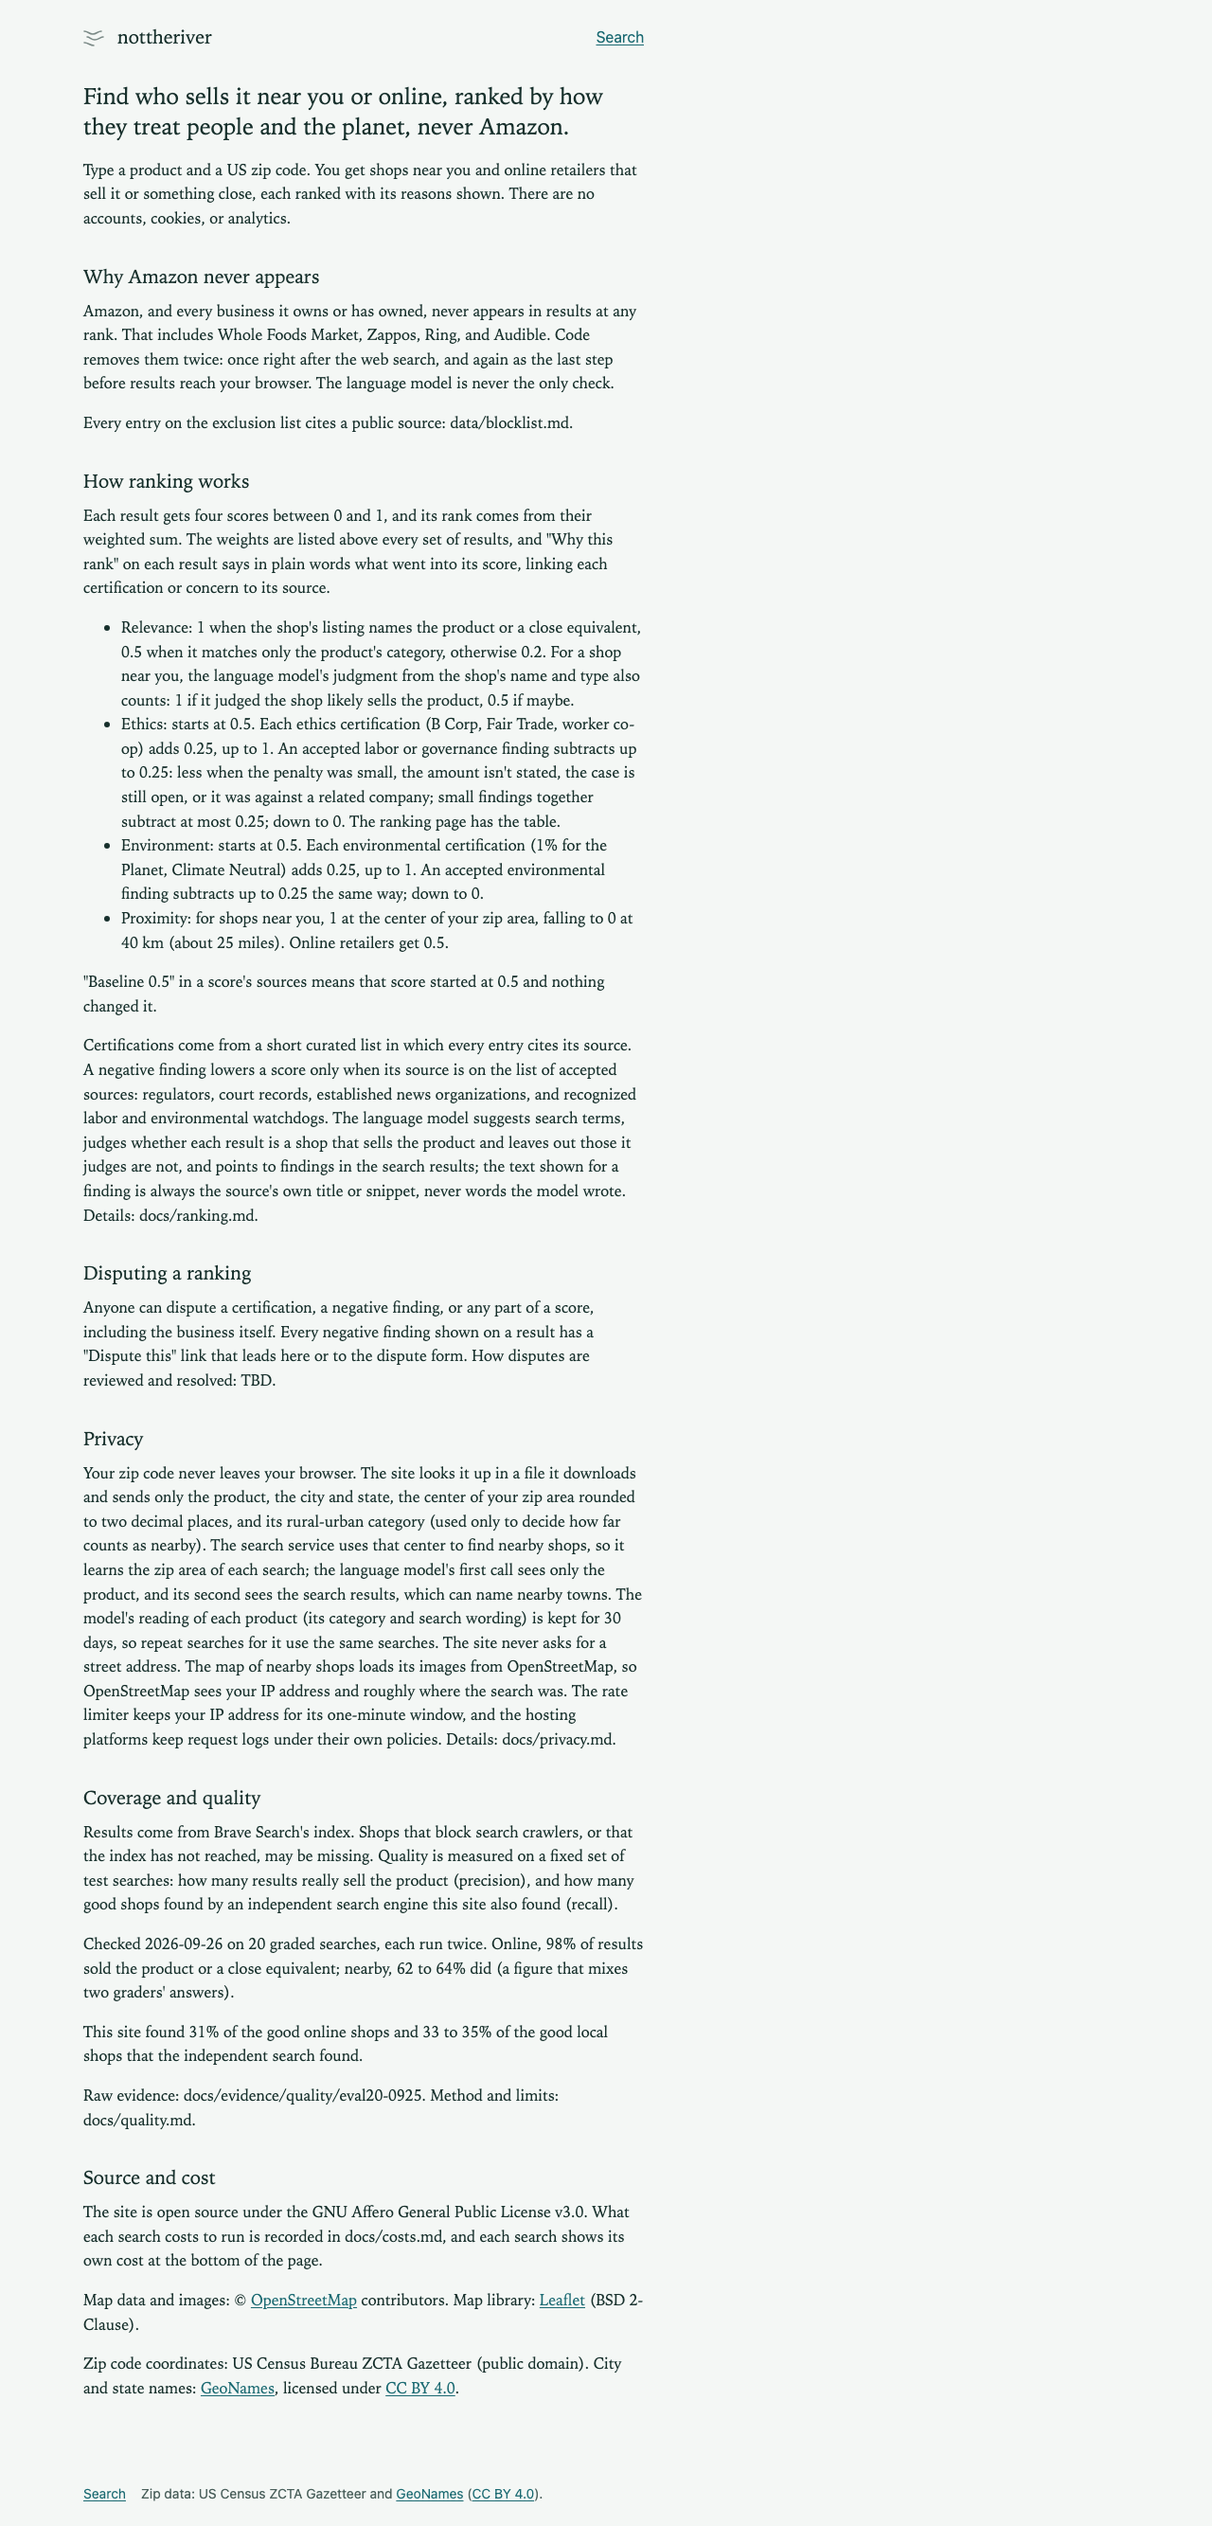
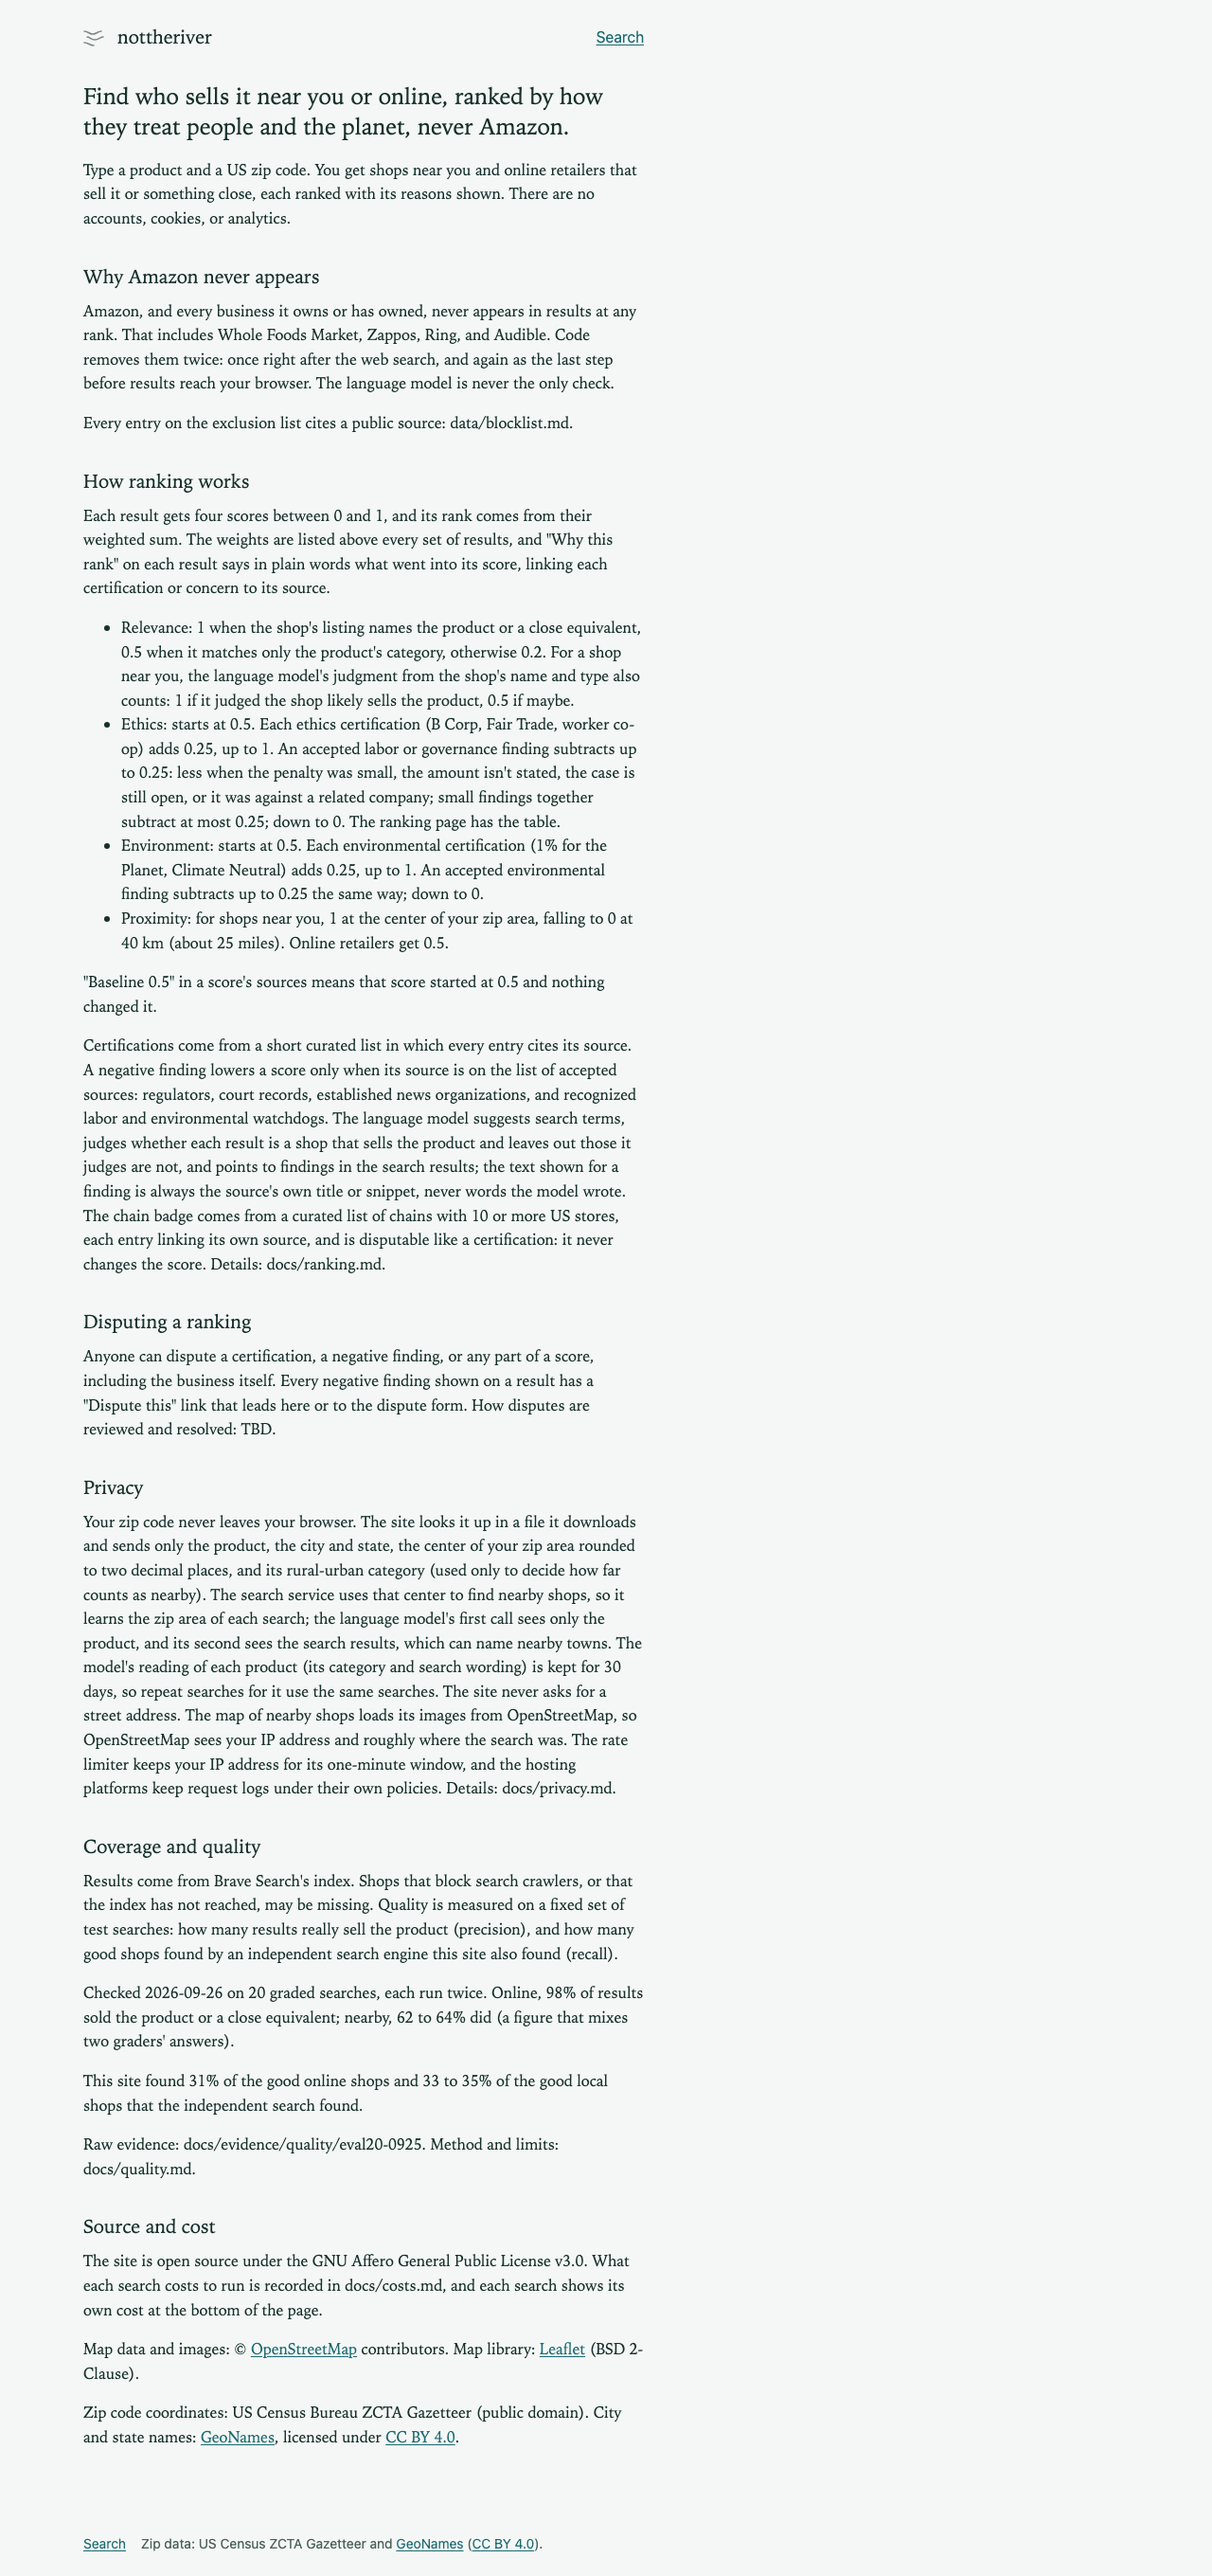
feat(site): show the chain badge
Render the chain badge (Worker's SearchResult.chain) alongside certification
badges as a neutral outbound link, so a chain reads as a fact, not a
credential. "Has certification" continues to ignore it (filterResults never
read the field). Adds about.html and docs/ranking.md copy, and regenerates
docs/evidence/results.png and about.png.

Claude-Session: https://claude.ai/code/session_01RPrsPCj17R4DAFxxExA59E

Changed region(s): [[0.0625, 0.0311, 0.5312, 0.9648]]

diff --git a/about.html b/about.html
@@ -38,7 +38,7 @@
 <li>Proximity: for shops near you, 1 at the center of your zip area, falling to 0 at 40 km (about 25 miles). Online retailers get 0.5.</li>
 </ul>
 <p>"Baseline 0.5" in a score's sources means that score started at 0.5 and nothing changed it.</p>
-<p>Certifications come from a short curated list in which every entry cites its source. A negative finding lowers a score only when its source is on the list of accepted sources: regulators, court records, established news organizations, and recognized labor and environmental watchdogs. The language model suggests search terms, judges whether each result is a shop that sells the product and leaves out those it judges are not, and points to findings in the search results; the text shown for a finding is always the source's own title or snippet, never words the model wrote. Details: <a data-repo-path="blob/main/docs/ranking.md">docs/ranking.md</a>.</p>
+<p>Certifications come from a short curated list in which every entry cites its source. A negative finding lowers a score only when its source is on the list of accepted sources: regulators, court records, established news organizations, and recognized labor and environmental watchdogs. The language model suggests search terms, judges whether each result is a shop that sells the product and leaves out those it judges are not, and points to findings in the search results; the text shown for a finding is always the source's own title or snippet, never words the model wrote. The chain badge comes from a curated list of chains with 10 or more US stores, each entry linking its own source, and is disputable like a certification: it never changes the score. Details: <a data-repo-path="blob/main/docs/ranking.md">docs/ranking.md</a>.</p>
 
 <h2 id="dispute">Disputing a ranking</h2>
 <p>Anyone can dispute a certification, a negative finding, or any part of a score, including the business itself. Every negative finding shown on a result has a "Dispute this" link that leads here or to the dispute form. How disputes are reviewed and resolved: TBD.</p>

diff --git a/src/controls.test.ts b/src/controls.test.ts
@@ -5,7 +5,7 @@ import { filterResults, sortResults } from './controls';
 
 const base = (fixture as SearchResponse).local[0]!;
 
-function make(name: string, rank: number, distance_km: number | null, certified = false): SearchResult {
+function make(name: string, rank: number, distance_km: number | null, certified = false, chain = false): SearchResult {
   return {
     ...base,
     id: `local:${name}:${rank}`,
@@ -14,6 +14,7 @@ function make(name: string, rank: number, distance_km: number | null, certified 
     retailer: { ...base.retailer, name },
     distance_km,
     certifications: certified ? base.certifications : [],
+    chain: chain ? { label: 'Chain, 25 stores', stores: 25, source_url: 'https://chain.example/about', checked: '2026-09-27' } : undefined,
   };
 }
 
@@ -60,6 +61,14 @@ describe('filterResults', () => {
 
   it('keeps only certified results when asked', () => {
     expect(names(filterResults(list, { near: true, online: true, certifiedOnly: true }))).toEqual([
+      'Near certified',
+      'Web certified',
+    ]);
+  });
+
+  it('does not count a chain badge as a certification', () => {
+    const withChain = [...list, make('Chain only', 3, 4, false, true)];
+    expect(names(filterResults(withChain, { near: true, online: true, certifiedOnly: true }))).toEqual([
       'Near certified',
       'Web certified',
     ]);

diff --git a/src/render.test.ts b/src/render.test.ts
@@ -107,6 +107,27 @@ describe('renderResults (HR5)', () => {
     expect(badge.getAttribute('href')).toBe(first.certifications[0]!.source_url);
   });
 
+  it('shows the chain badge as a neutral badge linking to its source', () => {
+    const chainResult = response.online[1]!;
+    const badge = item(chainResult).querySelector<HTMLAnchorElement>('.badge-neutral')!;
+    expect(badge.textContent).toBe(chainResult.chain!.label);
+    expect(badge.getAttribute('href')).toBe(chainResult.chain!.source_url);
+    expect(badge.classList.contains('badge')).toBe(true);
+  });
+
+  it('renders the badges list for a chain even with no certifications', () => {
+    const chainResult = response.online[1]!;
+    expect(chainResult.certifications).toHaveLength(0);
+    expect(item(chainResult).querySelectorAll('.badges li')).toHaveLength(1);
+  });
+
+  it('shows no badges list when a result has neither certifications nor a chain', () => {
+    const plain = response.local[1]!;
+    expect(plain.certifications).toHaveLength(0);
+    expect(plain.chain).toBeUndefined();
+    expect(item(plain).querySelector('.badges')).toBeNull();
+  });
+
   it('shows a negative signal with its kind, source link, action date, and a dispute link', () => {
     const second = response.local[1]!;
     const signal = second.signals[0]!;

diff --git a/tests/e2e/smoke.spec.ts b/tests/e2e/smoke.spec.ts
@@ -102,6 +102,14 @@ test('a search renders ranked, explained, Amazon-free results under the CSP', as
   await expect(concerns.locator('[data-negative]')).toHaveCount(2);
   await expect(concerns.locator('[data-action-date]')).toHaveText(['Nov 2, 2023', 'May 14, 2021']); // newest first
 
+  // A curated fixture (tests/fixtures/chains.json) badges Granite Outfitters as a chain; it
+  // carries no certification, so this also proves the badge shows without one.
+  const granite = page.locator('[data-result]').filter({ has: page.locator('[data-retailer]', { hasText: 'Granite Outfitters' }) }).first();
+  await expect(granite).toBeVisible();
+  const chainBadge = granite.locator('.badge-neutral');
+  await expect(chainBadge).toHaveText(/^Chain, \d+ stores$/);
+  await expect(chainBadge).toHaveAttribute('href', /granite-outfitters\.example\/about$/);
+
   const results = page.locator('[data-result]');
   const count = await results.count();
   for (let i = 0; i < count; i++) {

diff --git a/src/render.ts b/src/render.ts
@@ -197,12 +197,15 @@ export function renderResult(result: SearchResult, config: RenderConfig): HTMLLI
     body.append(el('p', { className: 'distance' }, where));
   }
 
-  if (result.certifications.length > 0) {
+  if (result.certifications.length > 0 || result.chain) {
     body.append(
       el(
         'ul',
         { className: 'badges' },
         ...result.certifications.map((c) => el('li', {}, outbound(c.source_url, c.label, { className: 'badge' }))),
+        // Not a certification: a chain is a property of the domain (Chain, docs/ranking.md), so
+        // it gets its own neutral style rather than the teal certification look.
+        ...(result.chain ? [el('li', {}, outbound(result.chain.source_url, result.chain.label, { className: 'badge badge-neutral' }))] : []),
       ),
     );
   }

diff --git a/src/styles.css b/src/styles.css
@@ -190,6 +190,9 @@ section h3 { font-family: var(--font-voice); font-weight: 400; font-size: var(--
   color: var(--accent);
   border-radius: var(--radius-control);
 }
+/* A chain badge is a fact about the domain, not a credential, so it stays out of the
+   teal certification style: a border instead of the accent fill, plain text color. */
+.badge-neutral { background: none; color: var(--ink); border: 1px solid var(--border-input); }
 .signal, .negative, .concerns { margin: var(--space-3) 0 0; font-size: var(--text-sm); }
 .signal-kind { font-weight: 600; }
 .negative { padding: var(--space-3); background: var(--warn-bg); color: var(--warn); border-radius: var(--radius-panel); }

diff --git a/docs/ranking.md b/docs/ranking.md
@@ -100,6 +100,8 @@ Curated in `data/certifications.json`; every row has a source URL and a check da
 | `climate_neutral` | Climate Label certified (the Climate Neutral certification, now branded The Climate Label) | Environment |
 | `independent_retailer_assoc` | Independent retailer association | Badge only, no score effect |
 
+The chain badge is not a `CertKind`: it comes from `data/chains.json` (a domain with 10 or more US stores), shown with a neutral badge style rather than the certification style, badge only, no score effect.
+
 ## Negative findings (down-ranking policy)
 
 A finding lowers a score only if all of these hold:

diff --git a/docs/plans/store-types.md b/docs/plans/store-types.md
@@ -6,7 +6,7 @@ Status: draft 2026-09-27, not started. Review: Fable fresh-eyes 2026-09-27, 16 f
 
 - [x] Phase 0: chain labels in the eval baseline (CQ5), no deploy
 - [x] Phase 1: chain badge, Worker (`data/chains.json`, response field), Worker deploy
-- [ ] Phase 2: chain badge, site, push to `main`
+- [x] Phase 2: chain badge, site, push to `main`
 - [ ] Phase 3a: `store_breadth` judgment in the enrich reply, no score effect, Worker deploy
 - [ ] Phase 4: measure (20 graded searches, run twice), operator gate
 - [ ] Phase 3b: specialist relevance tier, gated on Phase 4 numbers
